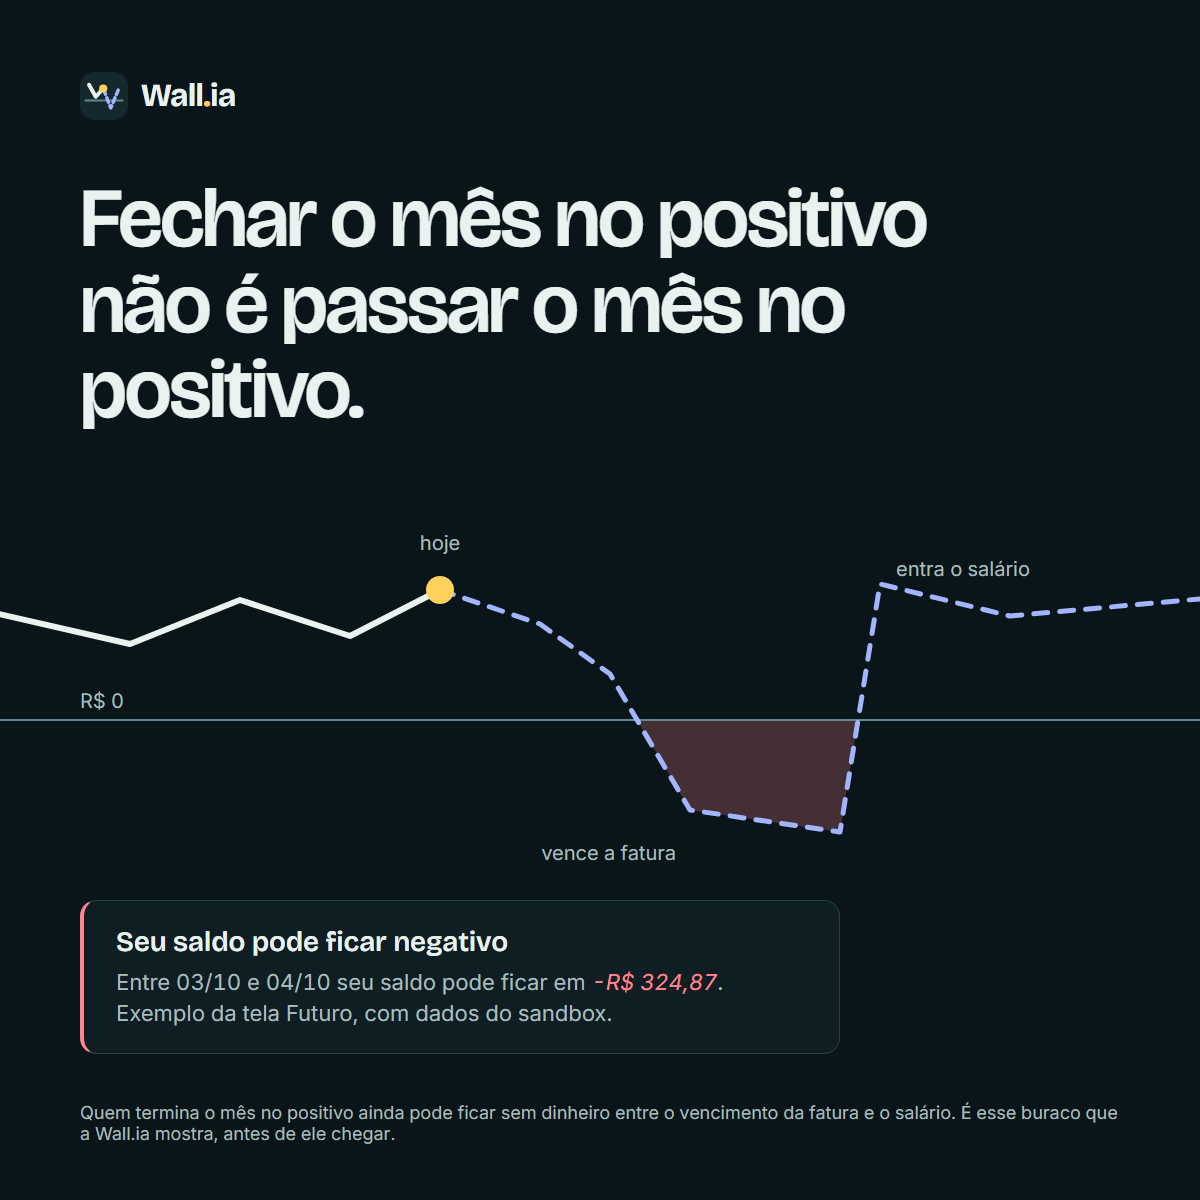
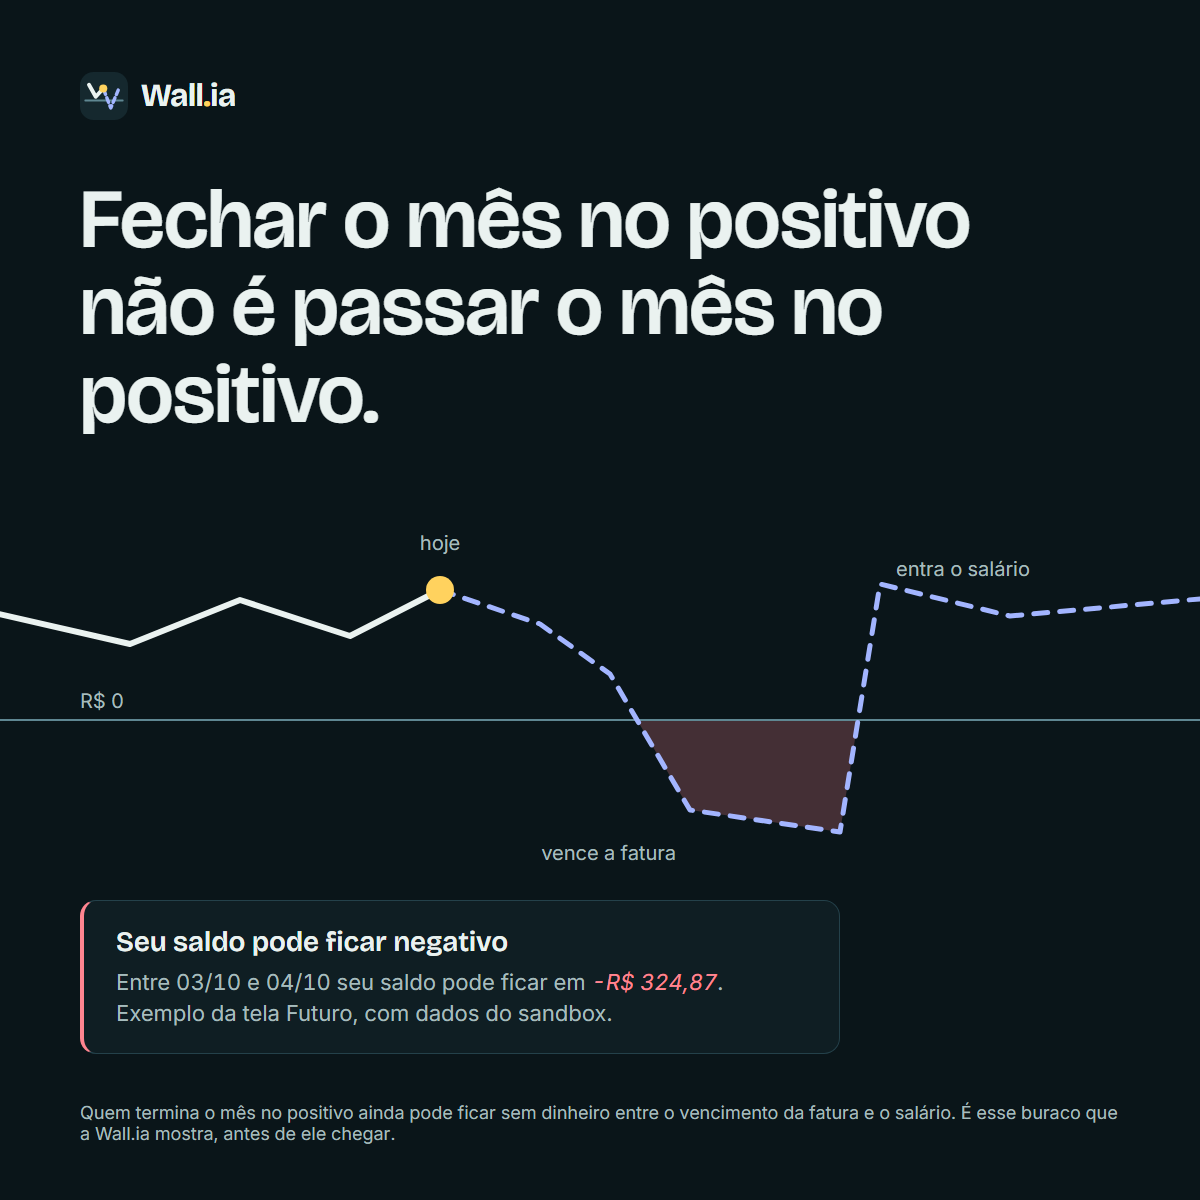
fix(marca): titulos com espacamento menos apertado
Na Bricolage em tamanho optico grande, -0.03em encostava as letras.
Titulo de marca em -0.008em e h1/h2 do tema mais soltos; PNGs regerados.

Changed region(s): [[0.0617, 0.1542, 0.8017, 0.37]]

diff --git a/docs/brand/brand.css b/docs/brand/brand.css
@@ -42,7 +42,7 @@ body { overflow: hidden; -webkit-font-smoothing: antialiased; position: relative
 .wordmark { font-family: var(--display); font-weight: 700; letter-spacing: -0.02em; line-height: 1; display: inline-flex; align-items: center; gap: 0.4em; }
 .wordmark svg { width: 1.5em; height: 1.5em; }
 .wordmark .dot { color: var(--action); }
-.headline { font-family: var(--display); font-weight: 600; letter-spacing: -0.03em; line-height: 1.02; font-variation-settings: 'opsz' 96; }
+.headline { font-family: var(--display); font-weight: 600; letter-spacing: -0.008em; line-height: 1.04; font-variation-settings: 'opsz' 96; }
 .body { color: var(--text-2); line-height: 1.45; }
 .estimate { font-style: italic; color: var(--estimated); }
 .source { color: var(--text-2); font-size: 18px; }

diff --git a/frontend/src/theme/typography.js b/frontend/src/theme/typography.js
@@ -58,7 +58,7 @@ const typography = {
     fontFamily: FONT_DISPLAY,
     fontWeight: 600,
     lineHeight: 1.12,
-    letterSpacing: '-0.025em',
+    letterSpacing: '-0.01em',
     fontSize: pxToRem(34),
     ...responsiveFontSizes({
       sm: 38,
@@ -84,7 +84,7 @@ const typography = {
     fontFamily: FONT_DISPLAY,
     fontWeight: 600,
     lineHeight: 1.22,
-    letterSpacing: '-0.03em',
+    letterSpacing: '-0.012em',
     fontSize: pxToRem(23),
     ...responsiveFontSizes({
       sm: 25,
